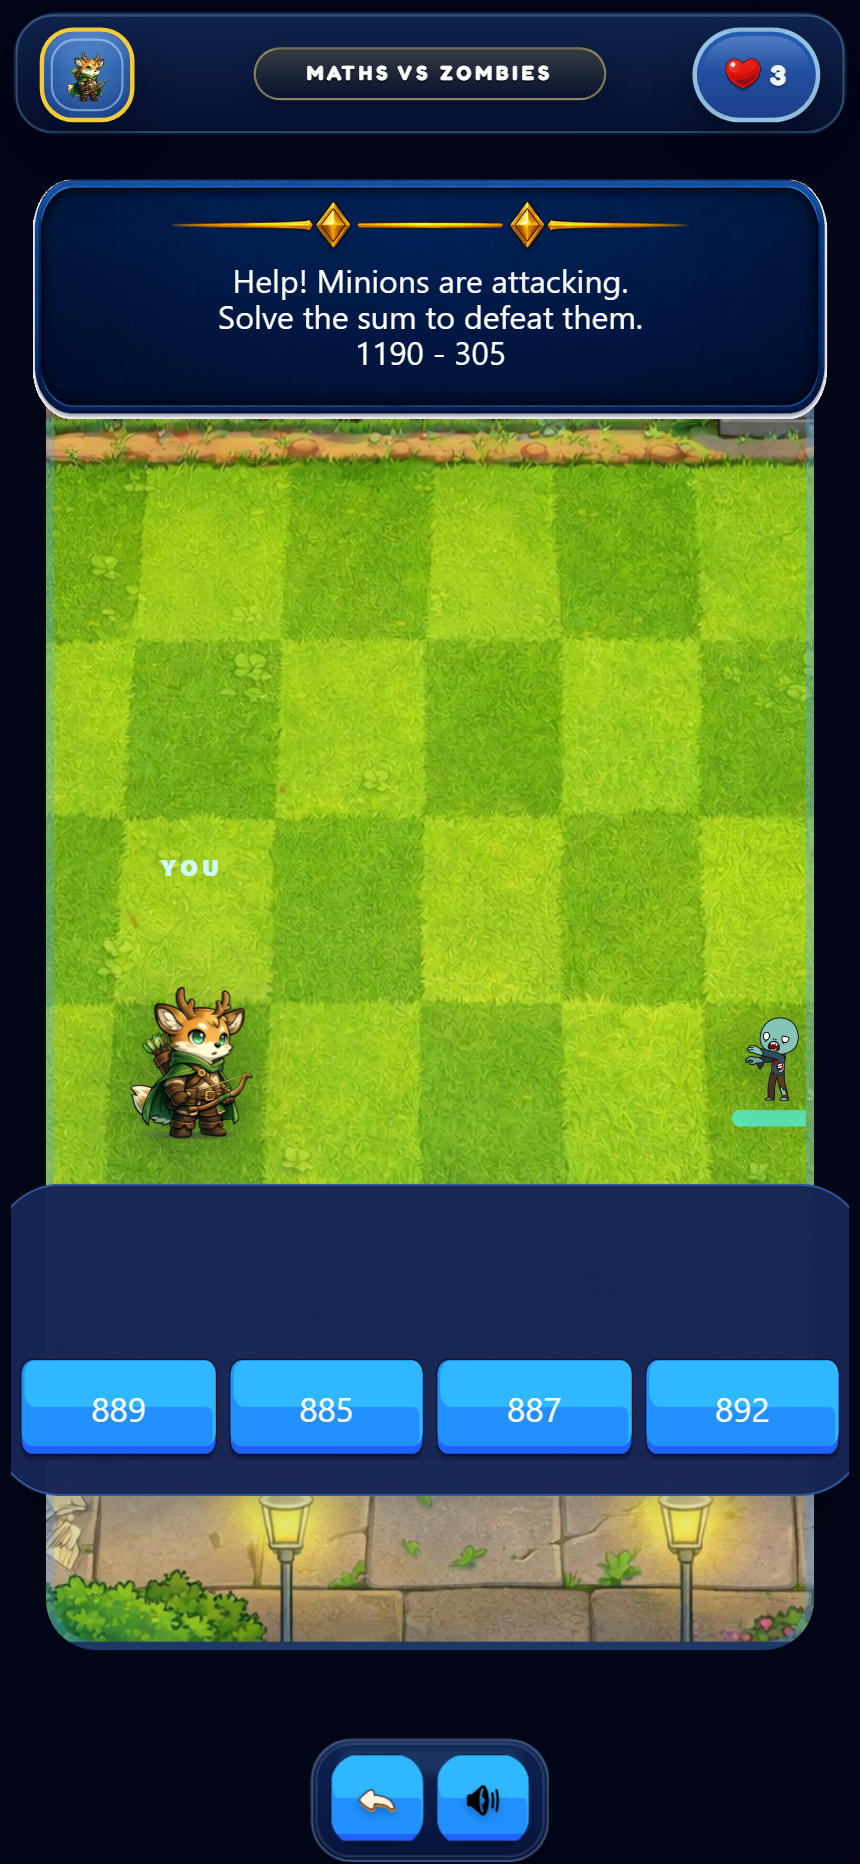
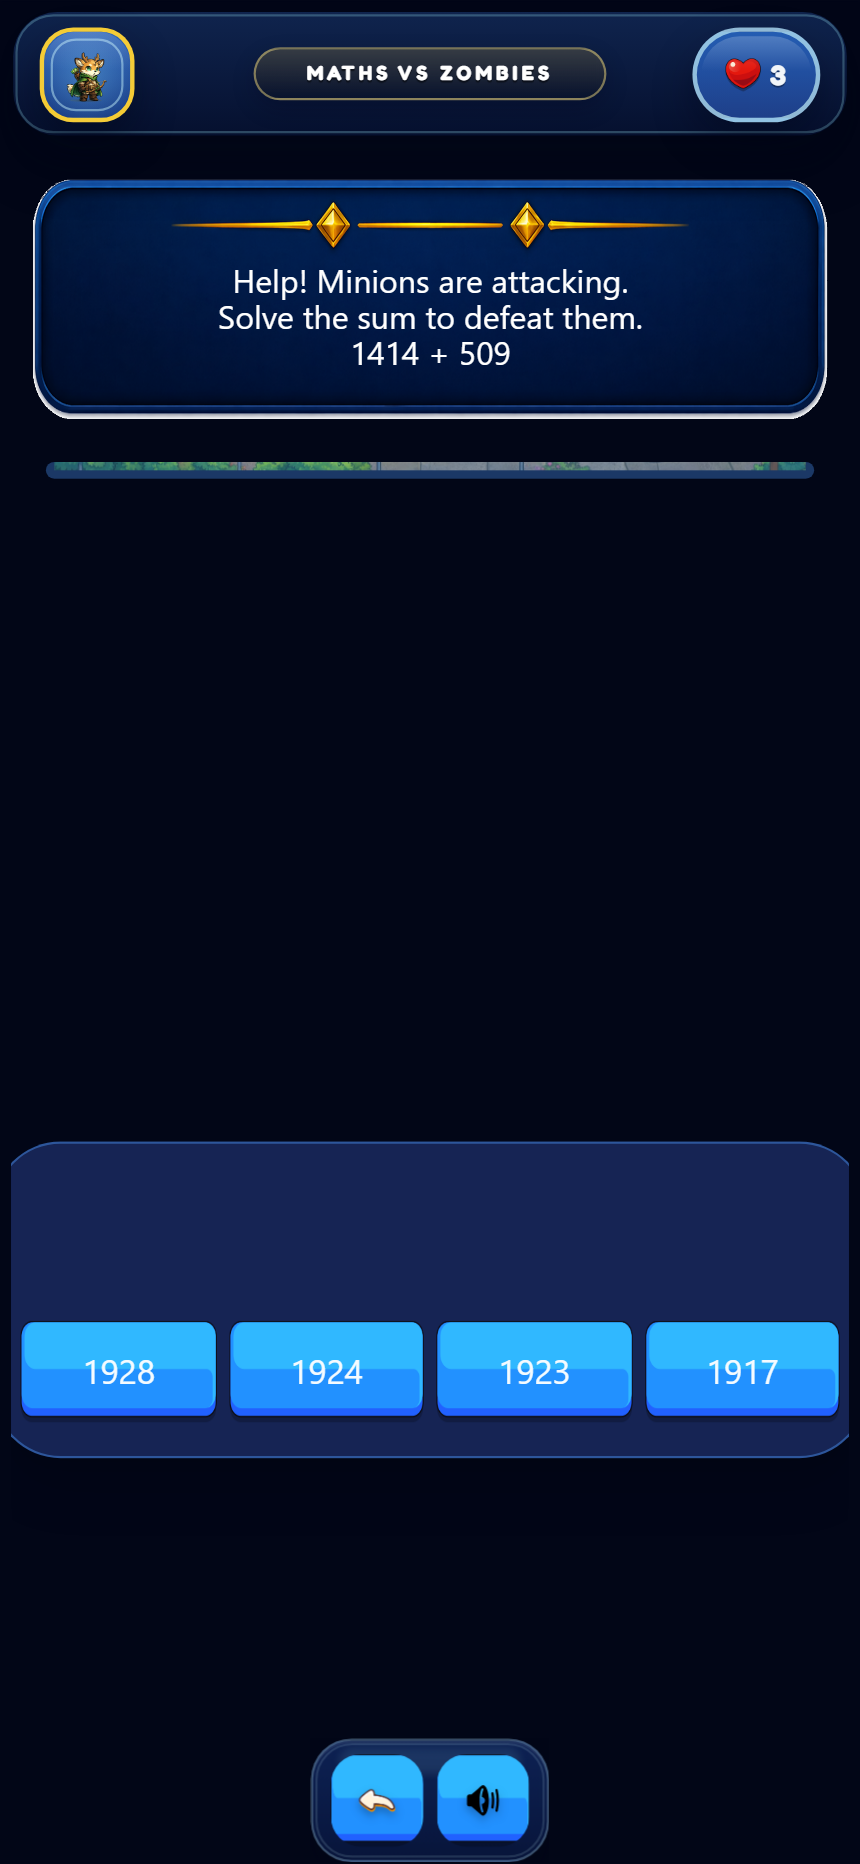
up

diff --git a/src/games/MathsVsZombiesGame.tsx b/src/games/MathsVsZombiesGame.tsx
@@ -503,9 +503,7 @@ const MathsVsZombiesGame: React.FC<MathsVsZombiesGameProps> = ({
   }, [timeLeft]);
 
   return (
-    <div
-      className="relative flex h-full w-full flex-col items-center overflow-hidden font-sans text-white select-none"
-    >
+    <div className="relative flex h-full w-full flex-col items-center overflow-hidden font-sans text-white select-none">
       <PracticeIntroPopup
         open={showPracticeIntro}
         title={gameTitle || 'Maths vs Zombies'}
@@ -519,28 +517,32 @@ const MathsVsZombiesGame: React.FC<MathsVsZombiesGameProps> = ({
           <TopBar XP={XP} brainPoints={zombiesDefeated} health={health} timer={timerLabel} onBack={onBack} />
         ) : null}
 
-        <div className={`mx-2 mt-1 flex-shrink-0 ${useSharedTopHud ? 'mt-1' : 'mt-2'}`}>
+        <div className={`mx-4 flex-shrink-0 ${useSharedTopHud ? 'mt-1' : 'mt-2'}`}>
           <GameQuestionCard className="mx-auto w-full max-w-[54rem]">
             {question.prompt}
           </GameQuestionCard>
         </div>
 
-        <div className={`mx-2 mt-1.5 flex min-h-0 flex-1 flex-col gap-2 ${useSharedTopHud ? 'mt-1' : 'mt-2'}`}>
+        <div className={`mx-4 flex min-h-0 flex-[1.9] flex-col gap-2 ${useSharedTopHud ? 'mt-1' : 'mt-2'}`}>
           <div
-            className="relative min-h-0 flex-[2.2] overflow-hidden rounded-3xl border-4 border-blue-400/30 bg-blue-900/10 shadow-2xl"
-            style={{ backgroundImage: `url(${zombiePlayfield})`, backgroundSize: 'cover', backgroundPosition: 'center bottom', backgroundRepeat: 'no-repeat' }}
+            className="relative min-h-0 flex-1 overflow-hidden rounded-3xl border-4 border-blue-400/30 bg-blue-900/10 shadow-2xl"
+            style={{
+              backgroundImage: `url(${zombiePlayfield})`,
+              backgroundSize: 'cover',
+              backgroundPosition: 'center bottom',
+              backgroundRepeat: 'no-repeat',
+            }}
           >
             <div className="absolute inset-0 bg-[radial-gradient(circle_at_20%_85%,rgba(56,189,248,0.06),transparent_48%)]" />
             <div
-              className="absolute left-4 flex flex-col items-center gap-1.5"
-              style={{ bottom: 'clamp(11rem, 22vh, 13rem)' }}
+              className="absolute bottom-4 left-5 flex flex-col items-center gap-1.5"
             >
               <div className="text-[11px] font-black uppercase tracking-[0.18em] text-cyan-100">You</div>
               {avatarImage ? (
                 <img
                   src={avatarImage}
                   alt=""
-                  className="h-[clamp(96px,18vh,148px)] w-auto object-contain drop-shadow-[0_10px_20px_rgba(2,6,23,0.45)]"
+                  className="h-[182px] w-auto object-contain drop-shadow-[0_10px_20px_rgba(2,6,23,0.45)]"
                   draggable={false}
                 />
               ) : null}
@@ -586,14 +588,14 @@ const MathsVsZombiesGame: React.FC<MathsVsZombiesGameProps> = ({
             </AnimatePresence>
           </div>
 
-          <div className="answer-choice-surface mx-auto flex w-full min-h-[9.25rem] flex-col rounded-[2rem] border border-blue-400/40 bg-blue-950/98 px-3 pb-4 pt-3 shadow-xl">
+          <div className="answer-choice-surface mx-4 mt-2 flex flex-col rounded-3xl border border-blue-400/40 bg-blue-950/70 p-2 shadow-xl">
             <div
               className={`min-h-[1rem] text-center text-[9px] font-semibold uppercase tracking-[0.12em] text-cyan-100/80 ${feedback ? 'opacity-100' : 'opacity-0'}`}
               aria-hidden={!feedback}
             >
               {feedback || '\u00A0'}
             </div>
-            <div className="mt-auto grid grid-cols-4 gap-1.5">
+            <div className="grid grid-cols-2 gap-1 sm:grid-cols-4">
               {question.options.map((option, index) => (
                 <button
                   key={`${option}-${index}`}
